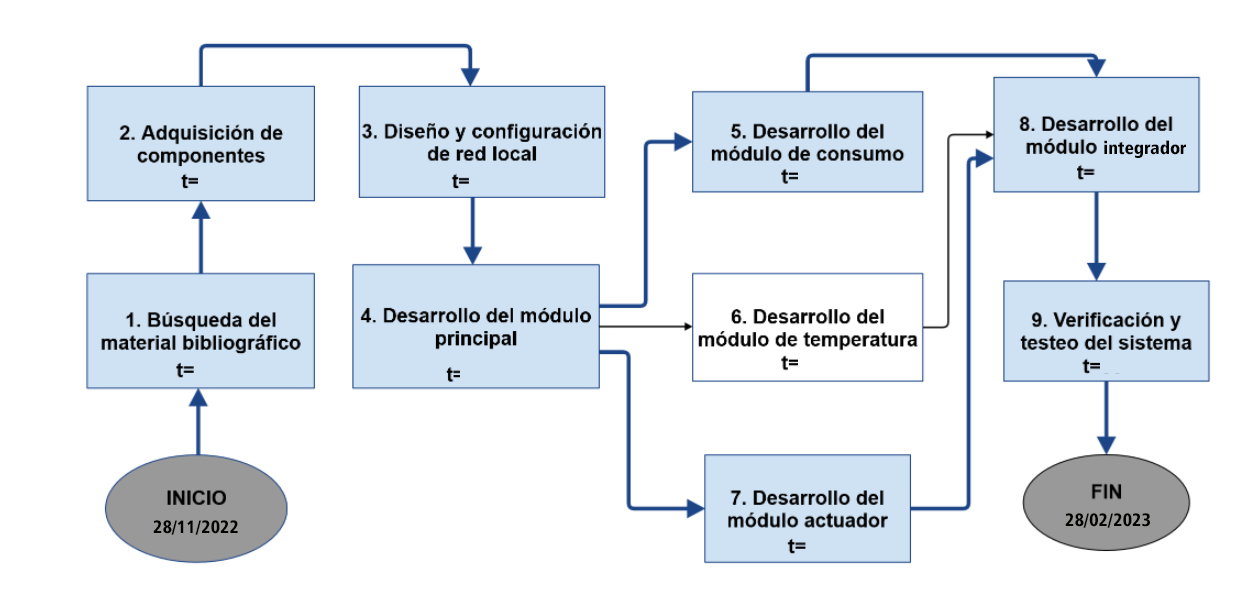
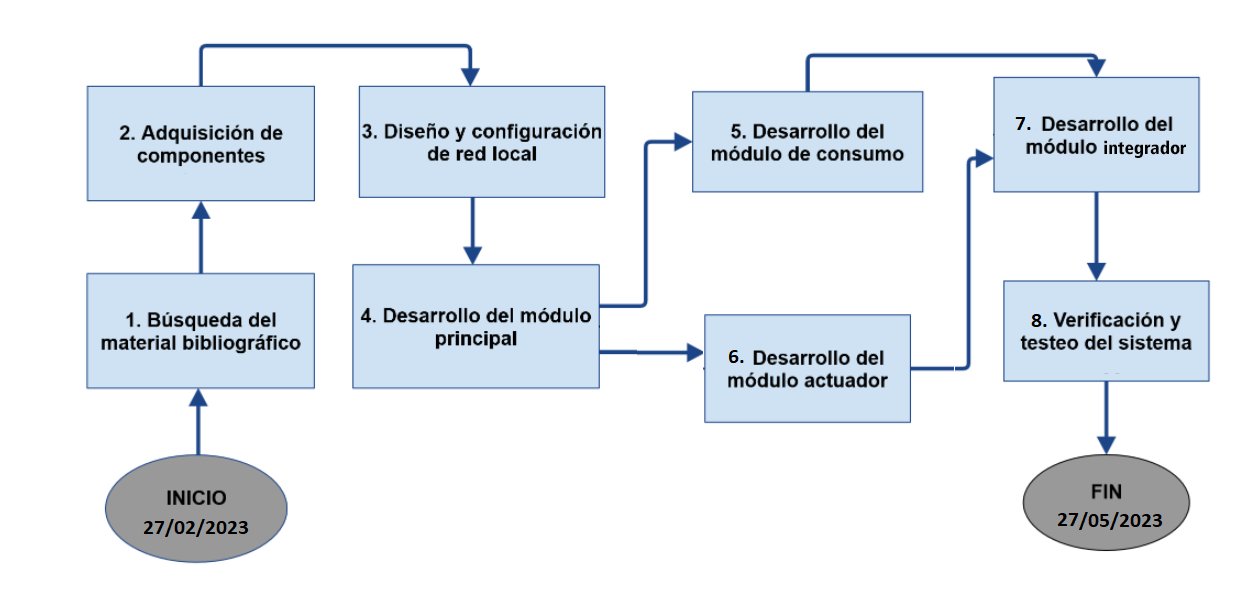
Versión 01
Aquí se observo que se debe cambiar los antecedentes por tesis

diff --git a/Plan_TG.tex b/Plan_TG.tex
@@ -14,7 +14,8 @@
 \usepackage{setspace}  % Usado para doble espacio, espacio y medio y espacio simple
 \usepackage{booktabs}         % Para formar tablas
 %\usepackage{longtable}       % Usado para diseñar grandes tablas.
-\usepackage[round]{natbib} 
+%\usepackage[round]{natbib} 
+\usepackage[numbers]{natbib}
 \usepackage{url}
 \urlstyle{same}
 \bibliographystyle{ieeetr}
@@ -24,11 +25,11 @@
 \begin{document}
 
 \begin{center}
- {\bf {\fontsize{14}{16.8}\selectfont UNIVERSIDAD NACIONAL DE TRUJILLO}}     
- 
-    {\bf{\fontsize{14}{16.8}\selectfont Facultad de Ciencias Físicas y Matemáticas}} 
-
-  {\bf{\fontsize{14}{16.8}\selectfont Escuela Profesional de Informática}}
+ {\bf {\fontsize{16}{16.8}\selectfont UNIVERSIDAD NACIONAL DE TRUJILLO}}     
+ \vskip 0.15cm
+    {\bf{\fontsize{16}{16.8}\selectfont Facultad de Ciencias Físicas y Matemáticas}} 
+\vskip 0.15cm
+  {\bf{\fontsize{16}{16.8}\selectfont Escuela Profesional de Informática}}
 \end{center}  
 
 \begin{figure}[ht]
@@ -38,8 +39,12 @@
 \end{figure}
 
 \vskip 2cm
+
 \begin{center}
-  { \bf {\fontsize{17}{20.4}\selectfont{Desarrollo de un sistema BMS-IoT para el control automatizado del consumo eléctrico basado en el protocolo MQTT}}  } 
+  { \bf {\fontsize{17}{20.4} \selectfont{ Desarrollo de un sistema BMS – IoT y su influencia en el \\ 
+  \vskip 0.2cm control automatizado del consumo eléctrico basado en el\\
+  \vskip 0.2cm protocolo MQTT en viviendas multifamiliares,\\
+  \vskip 0.2cm Trujillo 2023.}}  } 
 %\end{center}  
 
  
@@ -48,8 +53,8 @@
   
  \vskip 0.25cm 
   
-   Daniel I. Cruz Flores \\
-   Leoncio M. Moya Carranza
+   Daniel Iván Cruz Flores \\
+   Leoncio Marubi Moya Carranza
  
 	   
   \vskip 1cm
@@ -58,7 +63,7 @@
  
    Dra. Patricia Pereyra Salvador
   
-\vskip 4cm
+\vskip 2cm
 
 
 %\begin{center}    
@@ -66,7 +71,7 @@
 \vskip 0.0cm
 \hspace*{-0.2cm} 
 \vskip 0.1cm
-2022 }}
+2023 }}
 \end{center} 
 \newpage
 
@@ -86,7 +91,7 @@
 
 
 \subsection{Título}
-Desarrollo de un sistema BMS-IoT para el control automatizado del consumo eléctrico basado en el protocolo MQTT.
+Desarrollo de un sistema BMS – IoT y su influencia en el control automatizado del consumo eléctrico basado en el protocolo MQTT en viviendas multifamiliares, Trujillo 2023.
 
 \subsection{Autor(es)}
 %Indicar apellidos y nombres de los participantes:
@@ -112,19 +117,19 @@ Desarrollo de un sistema BMS-IoT para el control automatizado del consumo eléct
 
 \subsection{Áreas de Investigación}
 \begin{itemize}
-\item Redes y Comunicación
-\item Lenguajes de Programación
-\item Ingeniería de Software
-\item Sistemas Operativos
-\item Desarrollo Basado en Plataforma
+\item Redes y comunicación.
+\item Lenguajes de programación.
+\item Ingeniería de software.
+\item Sistemas operativos.
+\item Desarrollo basado en plataforma.
 \end{itemize}
 \subsection{Líneas de Investigación}
 \begin{itemize}
-\item Entrega de datos confiable
-\item Programación orientada a objetos
-\item Construcción de software
-\item Sistemas de tiempo real embebidos
-\item Plataforma web
+\item Entrega de datos confiable.
+\item Programación orientada a objetos.
+\item Construcción de software.
+\item Sistemas de tiempo real embebidos.
+\item Plataforma web.
 
 \end{itemize}
 
@@ -137,17 +142,17 @@ El protocolo de red MQTT y su aplicación en soluciones IoT
 
 \begin{itemize}
 
-\item LOCALIDAD: 
+\item Localidad: 
 Departamento de la Libertad, Provincia de Trujillo, distrito de Trujillo.
 
-\item INSTITUCIÓN: 
+\item Institución: 
 Universidad Nacional de Trujillo / Facultad de ciencias físicas y matemáticas/ Informática.
 
 \end{itemize}
 
 \subsection{Duración del trabajo de tesis (Plan y desarrollo)}
 %Ejemplo:\\
-\hspace*{0.7cm}Del \hspace*{0.2cm}28/11/2022 \hspace*{0.3cm} AL\hspace*{0.2cm}28/02/2023  \hspace*{0.2cm}(03 meses)
+\hspace*{0.7cm}Del \hspace*{0.2cm}27/02/2023 \hspace*{0.3cm} AL\hspace*{0.2cm}27/05/2023  \hspace*{0.2cm}(03 meses)
  
 \subsection{Cronograma del trabajo de investigación y desarrollo}
 %\subsubsection{Cronograma del plan TG y avance del desarrollo TG (un ciclo) }
@@ -158,27 +163,27 @@ Universidad Nacional de Trujillo / Facultad de ciencias físicas y matemáticas/
 \begin{tabular}{|p{7.7cm}  |p{2.2cm} |p{2.2cm} |p{2cm}|}  \hline   
 \textit{{\bf{Etapas}}}  & \textit{{\bf{Fecha inicio}}} & \textit{{\bf{Fecha fin}}} & \textit{{\bf{Hs/semana}}}\\ \hline
 
-\vskip 0.1cm Búsqueda de material bibliográfico &  \vskip 0.1cm 28/11/2022
+\vskip 0.1cm Búsqueda de material bibliográfico &  \vskip 0.1cm 27/02/2023
 %\par 20/09/2016 
-& \vskip 0.1cm 03/12/2022
+& \vskip 0.1cm 04/03/2023
 %\par 05/05/2017 
 & \vskip 0.1cm 44  \\ \hline
-\vskip 0.1cm Adquisición de componentes. & \vskip 0.1cm 05/12/2022 & \vskip 0.1cm 10/12/2022 & \vskip 0.2cm 44  \\ \hline
+\vskip 0.1cm Adquisición de componentes. & \vskip 0.1cm 06/03/2023 & \vskip 0.1cm 11/03/2023 & \vskip 0.2cm 44  \\ \hline
 
-\vskip 0.1cm Diseño y estudio de la red.  &\vskip 0.2cm 12/12/2022 &\vskip 0.2cm 17/12/2022 & \vskip 0.2cm 44 \\ \hline
+\vskip 0.1cm Diseño y estudio de la red.  &\vskip 0.2cm 13/03/2022 &\vskip 0.2cm 18/03/2022 & \vskip 0.2cm 44 \\ \hline
 
-\vskip 0.1cm Diseño y desarrollo del módulo principal I &\vskip 0.2cm 19/12/2022 &\vskip 0.2cm 24/12/2022 & \vskip 0.2cm 44 \\ \hline
+\vskip 0.1cm Diseño y desarrollo del módulo principal I &\vskip 0.2cm 20/03/2023 &\vskip 0.2cm 25/03/2023 & \vskip 0.2cm 44 \\ \hline
 
 
-\vskip 0.1cm Diseño y desarrollo del módulo principal II. &\vskip 0.2cm 27/12/2022 &\vskip 0.2cm 31/12/2022 & \vskip 0.2cm 44 \\ \hline
+\vskip 0.1cm Diseño y desarrollo del módulo principal II. &\vskip 0.2cm 27/03/2023 &\vskip 0.2cm 01/04/2023 & \vskip 0.2cm 44 \\ \hline
 
-\vskip 0.1cm Diseño e implementación del software web. &\vskip 0.2cm 02/01/2023 &\vskip 0.2cm 07/01/2023 & \vskip 0.2cm 44 \\ \hline
+\vskip 0.1cm Diseño e implementación del software web. &\vskip 0.2cm 03/04/2023 &\vskip 0.2cm 08/04/2023 & \vskip 0.2cm 44 \\ \hline
 
-\vskip 0.1cm Diseño y desarrollo del módulo de temp. &\vskip 0.2cm 09/01/2023 &\vskip 0.2cm 14/01/2023 & \vskip 0.2cm 44 \\ \hline
+\vskip 0.1cm Diseño y desarrollo del módulo de consumo. &\vskip 0.2cm 10/04/2023 &\vskip 0.2cm 15/04/2023 & \vskip 0.2cm 44 \\ \hline
 
-\vskip 0.1cm Diseño y desarrollo del módulo de consumo. &\vskip 0.2cm 16/01/2023 &\vskip 0.2cm 21/01/2023 & \vskip 0.2cm 44 \\ \hline
+\vskip 0.1cm Diseño y desarrollo del módulo actuador.  &\vskip 0.2cm 17/04/2023 &\vskip 0.2cm 22/04/2023 & \vskip 0.2cm 44 \\ \hline
 
-\vskip 0.1cm Diseño y desarrollo del módulo actuador.  &\vskip 0.2cm 23/01/2023 &\vskip 0.2cm 28/01/2023 & \vskip 0.2cm 44 \\ \hline
+\vskip 0.1cm Diseño y desarrollo del módulo Integrador I  &\vskip 0.2cm 24/04/2023 &\vskip 0.2cm 29/04/2023 & \vskip 0.2cm 44 \\ \hline
 
 
 \end{tabular}
@@ -195,17 +200,13 @@ Universidad Nacional de Trujillo / Facultad de ciencias físicas y matemáticas/
 \begin{tabular}{|p{7.7cm}  |p{2.2cm} |p{2.2cm} |p{2cm}|}  \hline   
 \textit{{\bf{Etapas}}}  & \textit{{\bf{Fecha inicio}}} & \textit{{\bf{Fecha término}}} & \textit{{\bf{Hs/semana}}}\\ \hline
 
+\vskip 0.1cm Diseño y desarrollo del módulo Integrador II  &\vskip 0.2cm 01/05/2023 &\vskip 0.2cm 06/05/2023 & \vskip 0.2cm 44 \\ \hline
 
+\vskip 0.1cm Integración del sistema.  &\vskip 0.2cm 08/05/2023 &\vskip 0.2cm 13/05/2023 & \vskip 0.2cm 44 \\ \hline
 
-\vskip 0.1cm Diseño y desarrollo del módulo Integrador I  &\vskip 0.2cm 30/01/2023 &\vskip 0.2cm 04/02/2023 & \vskip 0.2cm 44 \\ \hline
+\vskip 0.1cm Testing en sistema local. & \vskip 0.1cm 15/05/2023 & \vskip 0.1cm 20/05/2023 & \vskip 0.2cm 44  \\ \hline
 
-\vskip 0.1cm Diseño y desarrollo del módulo Integrador II  &\vskip 0.2cm 13/02/2023 &\vskip 0.2cm 18/02/2023 & \vskip 0.2cm 44 \\ \hline
-
-\vskip 0.1cm Integración del sistema.  &\vskip 0.2cm 20/02/2023 &\vskip 0.2cm 25/02/2023 & \vskip 0.2cm 44 \\ \hline
-
-\vskip 0.1cm Testing en sistema local. & \vskip 0.1cm 06/02/2023 & \vskip 0.1cm 11/02/2023 & \vskip 0.2cm 44  \\ \hline
-
-\vskip 0.1cm Testing en sistema remoto.  &\vskip 0.2cm 27/02/2023 &\vskip 0.2cm 28/02/2023 & \vskip 0.2cm 16 \\ \hline
+\vskip 0.1cm Testing en sistema remoto.  &\vskip 0.2cm 22/05/2023 &\vskip 0.2cm 27/05/2023 & \vskip 0.2cm 44 \\ \hline
 
 
 \end{tabular}
@@ -277,7 +278,7 @@ Es una nueva herramienta de \emph{software} de gestión energética profesional 
 
 \begin{figure}[ht]
 \begin{center}
-\includegraphics[width=0.65\textwidth]{energy-vision}
+\includegraphics[width=0.7\textwidth]{energy-vision}
 \end{center}
 \begin{center}
 \vskip -0.5cm
@@ -297,7 +298,7 @@ El sistema Iammeter puede generar un análisis integral del consumo de energía 
 
 \begin{figure}[ht]
 \begin{center}
-\includegraphics[width=0.6\textwidth]{iammeter}
+\includegraphics[width=0.65\textwidth]{iammeter}
 \end{center}
 \begin{center}
 \vskip -0.5cm
@@ -395,11 +396,11 @@ Por lo mencionado en los párrafos anteriores nuestra labor como profesionales c
 
 
 \subsection{Problema}
-¿Cómo mejorar la gestión y control del consumo eléctrico mediante un sistema BMS basado en los principios de IoT?
+¿De qué manera el desarrollo de un sistema BMS – IoT influye en el control automatizado del consumo eléctrico basado en el protocolo MQTT en viviendas multifamiliares, Trujillo 2023? 
 
 
 \subsection{Hipótesis}
-El desarrollo de un sistema BMS - IoT para automatizar la gestión eléctrica permitirá reducir el error humano en la toma de muestras y cálculo del consumo eléctrico mensual dentro de un edificio habitacional, de oficinas u otro entorno. Reduciendo el tiempo de muestreo que esta tarea conlleva y aumentando la disponibilidad de los datos de consumo para su acceso en tiempo real.   
+El desarrollo de un sistema BMS – IoT influirá significativamente en el control automatizado del consumo eléctrico basado en el protocolo MQTT en viviendas multifamiliares, Trujillo 2023.  
 
 
 \subsection{Variables}
@@ -408,34 +409,31 @@ El desarrollo de un sistema BMS - IoT para automatizar la gestión eléctrica pe
 \subsubsection{Variables independientes}
 
 \begin{itemize}
-\item Temperatura
-\item Intensidad de corriente
-\item Tensión eléctrica
+\item Intensidad de corriente.
+\item Tensión eléctrica.
 \end{itemize}
 
 \subsubsection{Variables dependiente}
 \begin{itemize}
-\item Ambientes domésticos cálidos
-\item Consumo eléctrico
+\item Consumo eléctrico.
 \end{itemize}
 
 \subsection{Objetivos}
 
 \vskip 0.2cm 
-\subsubsection{Objetivos generales}
+\subsubsection{Objetivo general}
 \begin{itemize}
-\item Diseñar y desarrollar un sistema BMS - IoT para el la gestión y control 
-automatizado del consumo eléctrico utilizando el protocolo MQTT.
+\item Desarrollar un sistema BMS - IoT para el control automatizado del consumo eléctrico basado en el protocolo MQTT en viviendas multifamiliares, Trujillo 2023.
 \end{itemize}
 
 \subsubsection{Objetivos específicos}
-\begin{itemize}
-\item Diseñar una red IoT para un sistema BMS considerando las variables existentes en los edificios habitacionales.
+\begin{enumerate}
+\item Diseñar una red IoT para un sistema BMS considerando las variables existentes en las viviendas multifamiliares.
 \item Diseñar e Implementar la interfaz de comunicación y toma de datos de los sensores de forma simultanea mediante comunicación inalámbrica con el protocolo MQTT.
 \item Diseñar e Implementar un módulo integrador - replicador de comunicación entre la red interna y la comunicación en la nube.
-\item Diseñar e Implementar los módulos electrónicos con sensores y actuadores para medir el consumo eléctrico y temperatura ambiente.
-\item Diseñar e implementar un software web responsivo a medida para el sistema BMS - IoT.
-\end{itemize}
+\item Diseñar e Implementar los módulos electrónicos con sensores y actuadores, para medir el consumo eléctrico doméstico.
+\item Diseñar e implementar un software web responsivo a medida, para el sistema BMS - IoT.
+\end{enumerate}
 
 
 
@@ -443,26 +441,26 @@ automatizado del consumo eléctrico utilizando el protocolo MQTT.
 %De acuerdo con \cite{Erica}, para el desarrollo del método debe presentarse un bosquejo de la manera  en que se propone llevar a cabo la investigación, es decir, el camino a seguir o los pasos a seguir para realizar una cosa. Cuando mas complejo sea el bosquejo  más fácil se desarrollará el proceso de investigación. Se utiliza el vocablo método en vez de metodología, ya este último se considera equivocado, en el sentido en que se le utiliza comúnmente en informes de investigación. 
 %\vskip 0.3cm
 %Los tipos de métodos a usar para TG en informática, elegir un método, se considera:
-\begin{enumerate}
+%%%%%%%%%%%%%%%%\begin{enumerate}
 %\item[a)] {\bf Método deductivo:} Es un método de razonamiento que consiste en tomar conclusiones generales para explicaciones partículares. El método se inicia con el análisis de los postulados, teoremas, leyes, principios, etc., de aplicación universal y de comprobada validez, para aplicarlos  a soluciones o hechos particulares. 
 
 %\item[b)]{\bf Método cuantitativo:} Se fundamenta en la medición de las características de los fenómenos, lo cual supone derivar de un marco conceptual pertinente al problema analizado, una serie de postulados que expresen relaciones entre las variables estudiadas de forma deductiva, es decir, estudia fenómenos susceptibles de cuantificación y utiliza pruebas estadísticas para el análisis de datos. Este método tiende a generalizar y normalizar resultados. 
 
 %\item[c)] {\bf Método inductivo:} Se utiliza el razonamiento para obtener conclusiones que parten de hechos particulares aceptados como válidos, para llegar a conclusiones, cuya aplicación sea de caracter general. El método se inicia con un estudio individual de los hechos y se formulan conclusiones universales que se postulan como leyes, principios o fundamentos de una teoría.
 
-\item{\bf Análisis y sintesis:} Este método se eligió porque nos permite estudiar los hechos, partiendo de la descomposición del objeto de estudio en cada una de sus partes para estudiarlas en forma individual (análisis y estudio de sensores y actuadores), y luego se integran dichas partes para estudiarlas de manera holística e integral (síntesis del sistema IoT).
-\end{enumerate}
+\textbf{Análisis y sintesis:} este método se eligió porque nos permite estudiar los hechos, partiendo de la descomposición del objeto de estudio en cada una de sus partes para estudiarlas en forma individual (análisis y estudio de sensores y actuadores), y luego se integran dichas partes para estudiarlas de manera holística e integral (síntesis del sistema IoT).
+%%%%%%%%%%%%%%%%%%%%%%\end{enumerate}
 
-
+\vskip 0.2cm 
 Para lograr el objetivo se seguirá el flujo de trabajo ilustrado en la figura \ref{fig:diagrama} del gráfico del diagrama Activity On Node.
 
 \begin{figure}[ht]
 \begin{center}
-\includegraphics[width=0.8\textwidth]{AoN}
+\includegraphics[width=0.82\textwidth]{AoN}
 \end{center}
 \begin{center}
 \vskip -0.5cm
-\caption{\small{Flujo de trabajo durante el método de trabajo.}}
+\caption{\small{Flujo del trabajo realizado.}}
 \label{fig:diagrama}
 \end{center}
 \end{figure}
